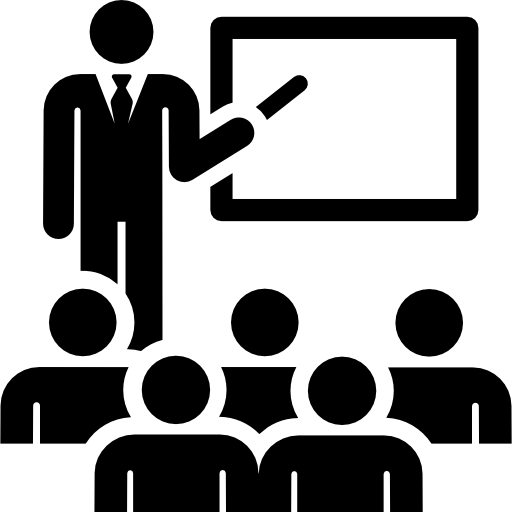
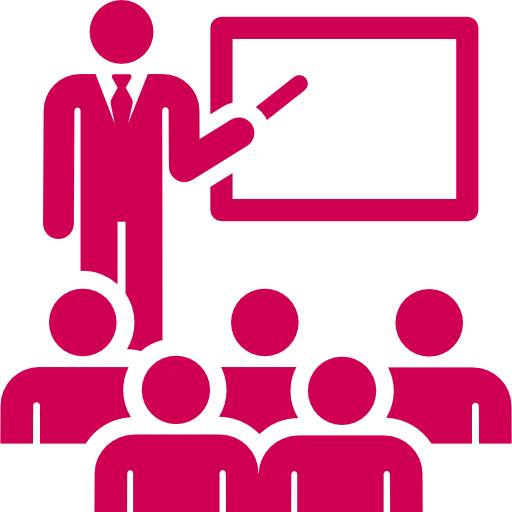
changes email Modificaciones web

diff --git a/src/app/pages/academy/academy.component.html b/src/app/pages/academy/academy.component.html
@@ -6,7 +6,7 @@
     <div class="row">
         <div class="col-12 academy-text">
             <p style="font-size: 19px;margin-top: 60px;">Emilia Diaz Academy nace de mucha preparación y estudio, pero actualmente se renueva para dar una nueva imagen a la formación y cuidados de animales de compañía, con un método de enseñanza innovador y técnicas mejoradas.</p>
-            <p style="font-weight: 700; font-size: 25px;">Nuestra inquietud por la mejora, nos ha posicionado en el mejor centro formativo de España.</p>
+            <p style="font-weight: 700; font-size: 25px; color:#C00042;">Nuestra inquietud por la mejora, nos ha posicionado en el mejor centro formativo de España.</p>
         </div>
     </div>
 </div>
@@ -20,7 +20,7 @@
 
             
             <img src="/assets/images/Recepcion.png" alt="" srcset="" width="100" height="100">
-            <p ><b>Recepción y espera de mascotas</b></p>
+            <p style="font-size: x-large;"><b>Recepción y espera de mascotas</b></p>
 <p>Zona independiente y segura, de recepción, entrega y espera de mascotas,  con entrada específica para cumplir el protocolo sanitario y dar más seguridad y exclusividad a nuestros clientes. </p>
 </div>        
 </div>
@@ -31,7 +31,7 @@
 
             
             <img src="/assets/images/zonahumeda.png" alt="" srcset="" width="100" height="100">
-            <p ><b>Zona húmeda</b></p>
+            <p style="font-size: x-large;"><b>Zona húmeda</b></p>
 <p >Zona exclusiva y moderna, con bañeras adaptadas para perros pequeños y grandes, donde se realizaran todos los tratamientos de baño y pre secado. Su diseño está pensado en la ergonomía postural del peluquero, facilitando su trabajo de manera correcta, cumpliendo la normativa de riesgos laborales y bienestar animal.</p>
 </div>        
 </div>
@@ -39,35 +39,39 @@
             <img style="float: left;" src="/assets/images/bano.jpg" alt="" srcset="" class="img-fluid">
         </div>
     </div>
-    <div class="row zone-academy grey">
-        <div class="col-xs-12 col-sm-7">
-            <img src="/assets/images/estudio.jpg" alt="" srcset="" class="img-fluid">
-        </div>
-        <div class="col-xs-12 col-sm-5 texts">
-            <div>
-
-            
-            <img src="/assets/images/Teorica.png" alt="" srcset="" width="100" height="100">
-            <p ><b>Aula de exposición teórica</b></p>
-            <p>Sala multifuncional, donde se imparte teoría, clases magistrales o se realizan trabajos interactivos grupales o individuales.</p>
-        </div>
-        </div>
+    
+<div class="row zone-academy grey">
+    <div class="col-xs-12 col-sm-7">
+        <img style="float: right;" src="/assets/images/corte.jpg" alt="" srcset="" class="img-fluid">
     </div>
-    <div class="row zone-academy">
     <div class="col-xs-12 col-sm-5 texts">
         <div>
 
         
         <img src="/assets/images/zonaseca.png" alt="" srcset="" width="100" height="100">
-        <p ><b>Zona Seca</b></p>
+        <p style="font-size: x-large;"><b>Zona Seca</b></p>
         <p >Zona de trabajo predestinada a la finalización del secado y arreglos, que cumple la normativa y el protocolo para la prevención sanitaria.</p>
     </div>
         <p >Es una zona moderna, con material de última generación, donde desarrollaremos todos los tipos de arreglos establecidos, con mesas de trabajo eléctricas que nos ayudarán a estar en una óptima posición corporal en el desarrollo de nuestra actividad. </p>
     </div>
+
+</div>
+<div class="row zone-academy ">
+
+    <div class="col-xs-12 col-sm-5 texts">
+        <div>
+
+        
+        <img src="/assets/images/Teorica.png" alt="" srcset="" width="100" height="100">
+        <p style="font-size: x-large;"><b>Aula de exposición teórica</b></p>
+        <p>Sala multifuncional, donde se imparte teoría, clases magistrales o se realizan trabajos interactivos grupales o individuales.</p>
+    </div>
+    </div>
     <div class="col-xs-12 col-sm-7">
-        <img style="float: left;" src="/assets/images/corte.jpg" alt="" srcset="" class="img-fluid">
+        <img style="float: left;" src="/assets/images/estudio.jpg" alt="" srcset="" class="img-fluid">
     </div>
 </div>
+
 <map-contact></map-contact>
 </div>
 </div>

diff --git a/src/app/pages/biography/biography.component.html b/src/app/pages/biography/biography.component.html
@@ -3,7 +3,7 @@
 <div class="container-fluid" style="margin-top: 85px;">
     <div class="row intro-bio">
         <div class="col-xs-12 col-md-4">
-            <img src="/assets/images/emilia-frontal.png" alt="imagen-ed" srcset="" height="400" class="img-responsive" >
+            <img src="/assets/images/emilia-frontal.png" alt="imagen-ed" srcset="" height="400" class="img-fluid" >
         </div>
         <div class="col-xs-12  col-md-8">
             <p  style="margin-top: 50px; font-size: 43px;">Emilia Díaz</p>
@@ -14,12 +14,12 @@
 <div class="container-fluid">
     <div class="row sections-bio" >
         <div class="col-2"></div>
-        <div class="col-4 col-xs-12">
+        <div class="col-sm-4 col-xs-12">
             <p class="clickable" (click)="setShowValue('bio')" [ngClass]="changeActiveClass('bio')">Biografía</p>
             <p class="clickable" (click)="setShowValue('sema')" [ngClass]="changeActiveClass('sema')">Cursos y seminarios Impartidos</p>
             <p class="clickable" (click)="setShowValue('semb')" [ngClass]="changeActiveClass('semb')">Cursos y seminarios Realizados</p>
         </div>
-        <div class="col-4 col-xs-12">
+        <div class="col-sm-4 col-xs-12">
             <p class="clickable" (click)="setShowValue('comp')" [ngClass]="changeActiveClass('comp')">Trayectoría como competidora</p>
             <p class="clickable" (click)="setShowValue('juez')" [ngClass]="changeActiveClass('juez')">Trayectoría como jueza</p>
             <p class="clickable" (click)="setShowValue('recon')" [ngClass]="changeActiveClass('recon')">Cargos y reconociminetos</p>
@@ -46,7 +46,7 @@
             <p>En un principio mi formación para los arreglos de las razas que exponía, era de forma autodidacta, dedicando muchísimas horas a intentar copiar arreglos que veía. En aquella época nadie invertía tiempo en enseñarte, pero al adquirir una raza determinada tenía el compromiso por el criador/handler, y me daban nociones iniciales de los arreglos, que sabía aprovechar y memorizar.</p>
             
             <h5>1996-2002</h5>
-            <p>Mi inquietud por el aprendizaje, formación y la competición, me hace investigar y averiguar constantemente, aunque era muy difícil, ya que no había Internet ni redes sociales, pero aun así logo <b>asistir al primer International Oster Tournament</b> de peluquería en Bruselas en 1996, donde coincido con los más grandes profesionales del momento, que hacen, que todo cambiara en mí y platearme mi futuro: <b>“Quiero ser profesional de la Peluquería Canina”</b></p>
+            <p>Mi inquietud por el aprendizaje, formación y la competición, me hace investigar y averiguar constantemente, aunque era muy difícil, ya que no había Internet ni redes sociales, pero aun así logro <b>asistir al primer International Oster Tournament</b> de peluquería en Bruselas en 1996, donde coincido con los más grandes profesionales del momento, que hacen, que todo cambiara en mí y plantearme mi futuro: <b>“Quiero ser profesional de la Peluquería Canina”</b></p>
             
             <p>A partir de 1997 todo cambia, empiezo a competir en campeonatos de peluquería rápida, muchas son las participaciones para empezar a entender las competiciones, pero con mi perseverancia y constancia, consigo ganar primero respeto como competidora, y más tarde como premiada, ya que llegan los triunfos, medallas, BIS y otros galardones y triunfos, tanto a nivel Nacional como Internacional.</p>
             <p>Conozco a peluqueros con los que tenemos afinidad y más tarde amistad, que ha perdurado en el tiempo, gracias a las vivencias, aprendizajes en común y convivencia. Gracias a ellos logramos organizarnos y crear la Asociación Española de Estilistas Caninos cuyo objetivo principal en este momento es la formación de los peluqueros y más tarde el reconocimiento de la profesión.</p>

diff --git a/src/app/pages/iga/iga.component.html b/src/app/pages/iga/iga.component.html
@@ -57,7 +57,7 @@
             </div>
             <div class="col-12 col-md-8 padding-texts">
                 <p style="padding-left: 35px;"><b>Jorge Jose Professional Grooming Academy MX</b></p>
-                <p><i class="fas fa-directions"></i> Dirección: CALZADA CUAUHTEMOC #986 COLONIA PROHOGAR ENTRE RIO CULIACAN Y RIO SAN LORENZO</p>
+                <p><i class="fas fa-directions"></i> Dirección: Calzada Cuauhtemoc #986. Colonia Prohogar entre Rio Culican y Rio San Lorenzo</p>
                 <p><i class="fas fa-phone"></i> Teléfono: +526865671802 - +526862718178</p>
                 <p><i class="fas fa-envelope"></i> E-mail: <a href="mailto:jorgejose.academygroomx@gmail.com" target="_blank" rel="noopener noreferrer"> jorgejose.academygroomx@gmail.com</a> </p>
                 <p><i class="fab fa-facebook-f"></i> Facebook: <a href="https://www.facebook.com/jorgejoseacademy/" target="_blank" rel="noopener noreferrer"> jorgejoseacademy</a> </p>

diff --git a/src/app/components/map-contact/map-contact.component.html b/src/app/components/map-contact/map-contact.component.html
@@ -9,10 +9,6 @@
             <a href="https://petsociety.es/" target="_blank" rel="noopener noreferrer">
                 <img src="/assets/images/partner_image_3.png" alt="hydra" style="display: block; width: 200px;" class="img-fluid">
             </a>
-
-            <a href="https://www.instagram.com/afiladosxicu/" target="_blank" rel="noopener noreferrer">
-                <img src="/assets/images/afilados.png" alt="pet-society" style="display: block; width: 200px;filter: grayscale(100%);" class="img-fluid">
-            </a>
     
             <a href="https://petsociety.com.br/" target="_blank" rel="noopener noreferrer">
                 <img src="/assets/images/partner_image_4.png" alt="pet-society" style="display: block; width: 200px;" class="img-fluid">

diff --git a/src/app/pages/tecnico-superior/tecnico-superior.component.html b/src/app/pages/tecnico-superior/tecnico-superior.component.html
@@ -228,7 +228,7 @@
   <div class="row">
     <div class="col-12">
       <div class="text-chevron" (click)="openFaqs(3)">
-        <p class="program-title">3. ¿a quién va dirigido el curso?</p><i *ngIf="id == undefined || id != 3" class="fas fa-chevron-down"></i><i *ngIf="id == 3" class="fas fa-chevron-up"></i>
+        <p class="program-title">3. ¿A quién va dirigido el curso?</p><i *ngIf="id == undefined || id != 3" class="fas fa-chevron-down"></i><i *ngIf="id == 3" class="fas fa-chevron-up"></i>
       </div>  
     </div>
     <div class="col-12" *ngIf="id == 3">

diff --git a/src/app/pages/biography/biography.component.scss b/src/app/pages/biography/biography.component.scss
@@ -1,5 +1,5 @@
 .intro-bio{
-    height: 400px;
+    
     margin-top: 30px;
     text-align: center;
     font-size: 20px;
@@ -7,8 +7,8 @@
 }
 
 .sections-bio{
-    height: 200px;
     background: linear-gradient(90deg, #020024 0%, rgba(247, 247, 247, 0.6558998599) 0%, #f0f0f0 100%);
+    padding-bottom: 20px;
 }
 
 .clickable {
